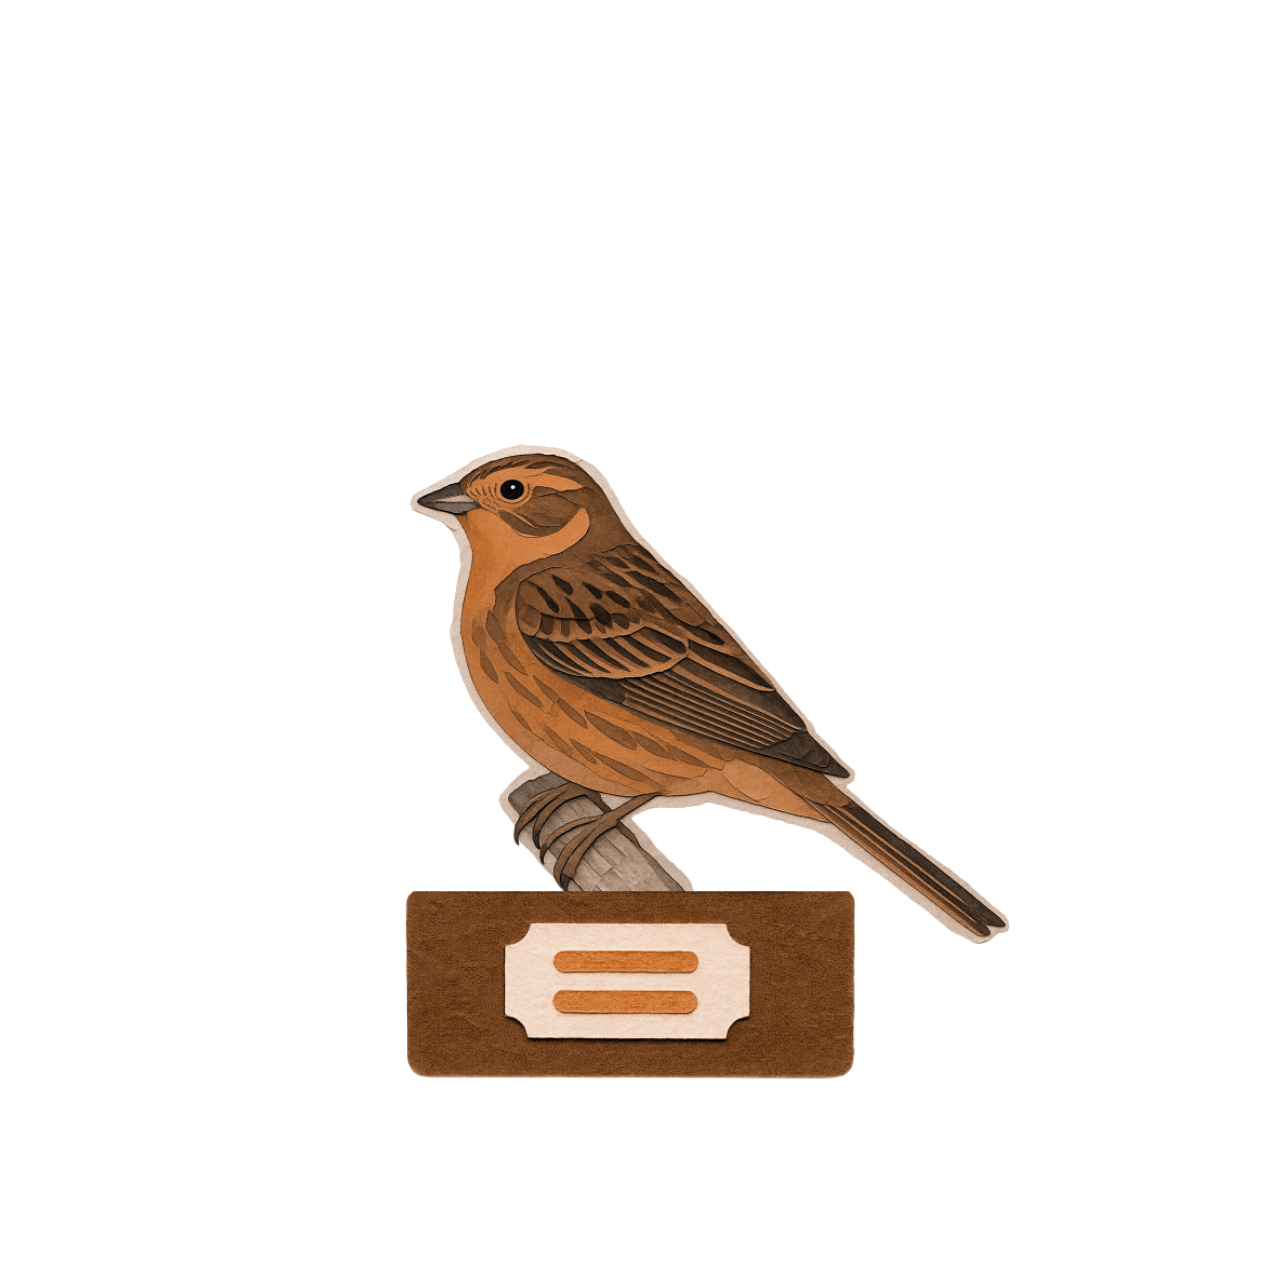
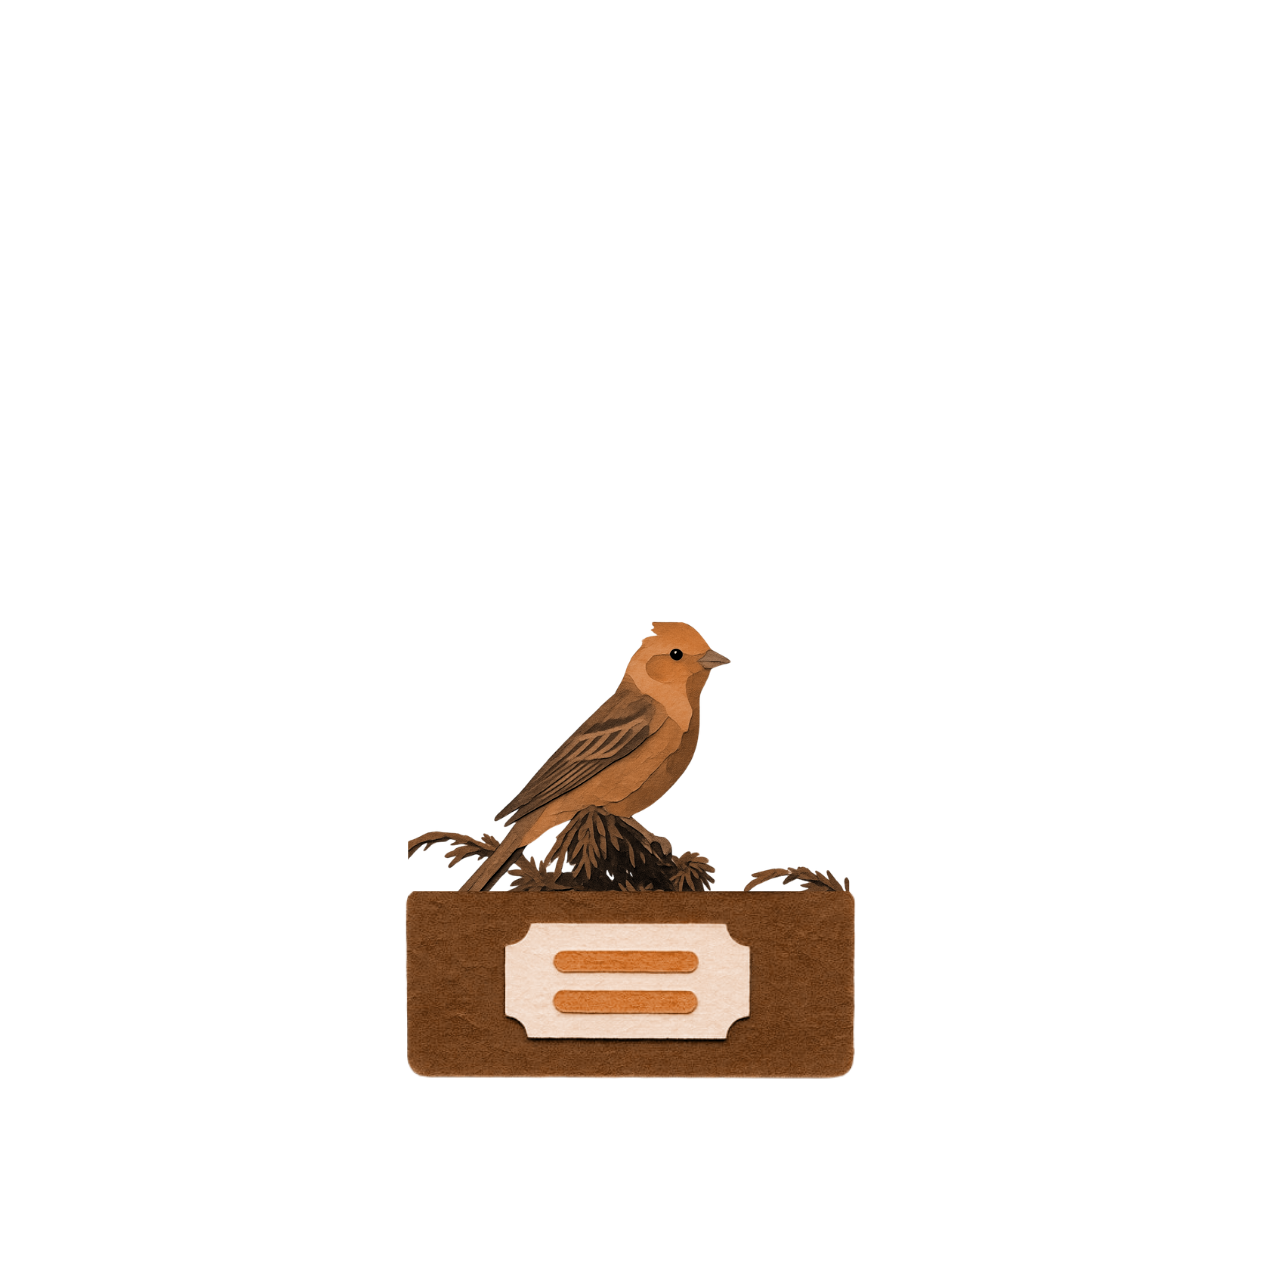
Trophee Bruants : 6 nouveaux visuels papier-craft Canva (v2). Cache v182.

Changed region(s): [[0.3085, 0.3394, 0.8022, 0.7405]]

diff --git a/service-worker.js b/service-worker.js
@@ -3,7 +3,7 @@
 //   puis rafraichit en background. Prochain reload = nouvelle version.
 // - Requetes cross-origin (Firestore, iNaturalist, xeno-canto, Wikipedia, etc.) : reseau seul.
 // - Bump CACHE_VERSION quand on veut invalider volontairement.
-const CACHE_VERSION = 'v181-2026-09-15-alouette-corvide-visuel-v2';
+const CACHE_VERSION = 'v182-2026-09-15-bruants-visuel-v2';
 const CACHE_NAME = 'lmb-' + CACHE_VERSION;
 
 self.addEventListener('install', (e) => {
